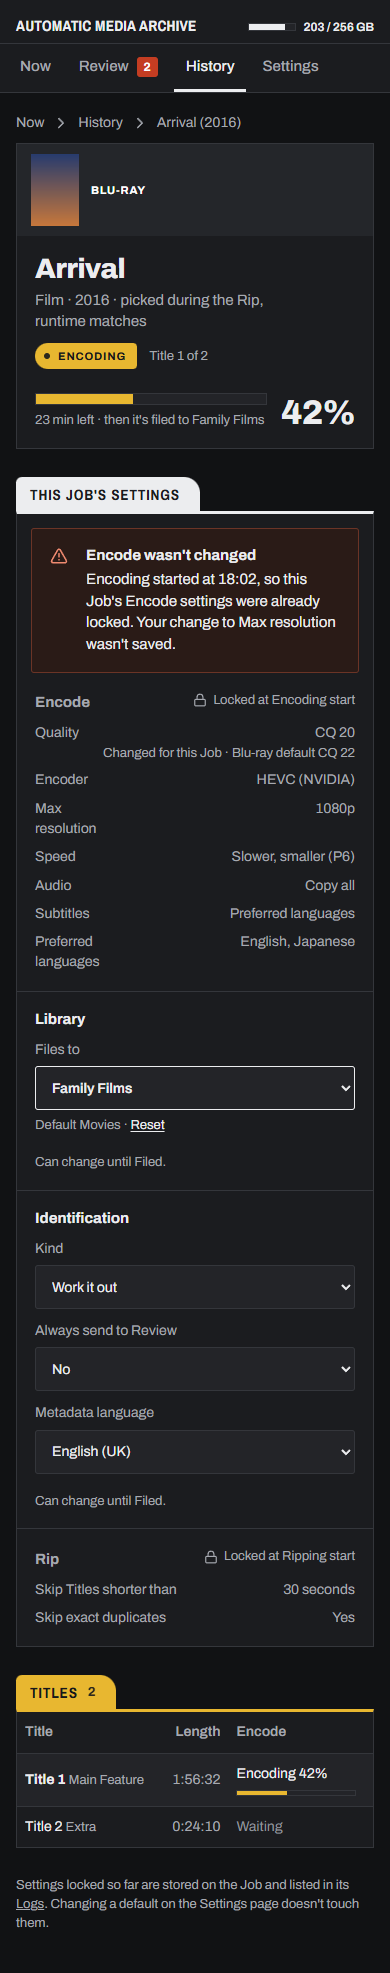
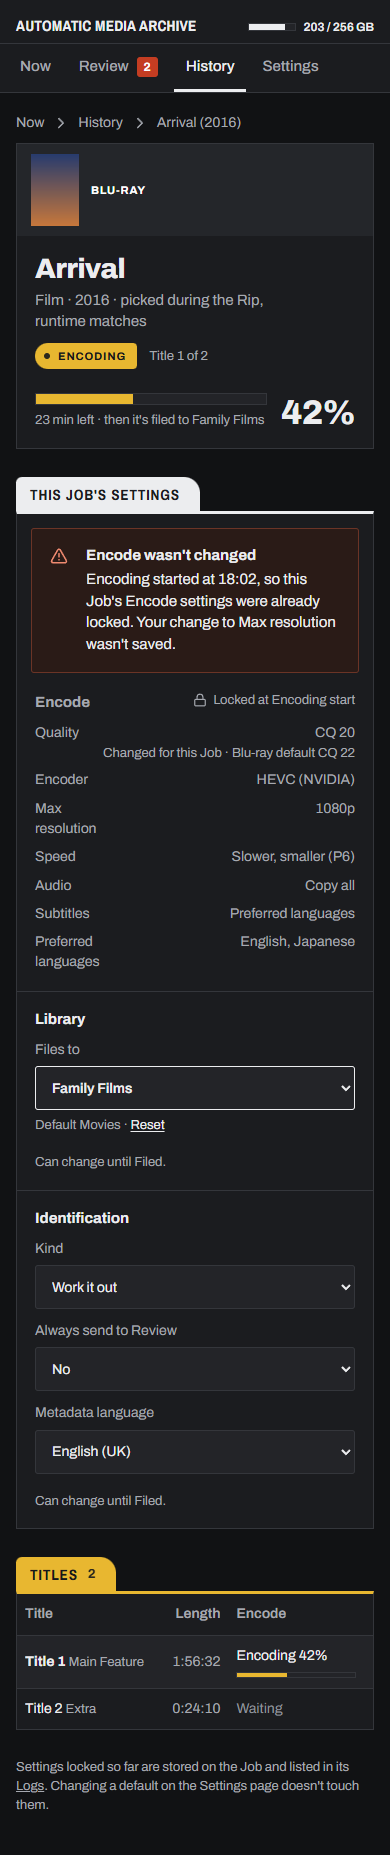
Show only real config in per-Job settings mockups
Video Rips have no Rip settings in ama.toml (the 30-second minimum and
duplicate skipping are fixed MakeMKV behaviour), so video Jobs leave the
Rip group out. CD Jobs keep it with the drive offset and retries.

Refs #29

diff --git a/docs/mockups/job-settings-job-video.html b/docs/mockups/job-settings-job-video.html
@@ -64,10 +64,6 @@
                 <label for="i-lang">Metadata language</label><select class="select" id="i-lang"><option>English (UK)</option><option>English (US)</option><option>Japanese</option></select>
               </div>
               <p class="until">Can change until Filed.</p>
-            </div>
-            <div class="grp locked">
-              <div class="gh"><h3>Rip</h3><span class="lk"><svg class="i" aria-hidden="true"><use href="assets/icons.svg#lock"/></svg>Locked at Ripping start</span></div>
-              <dl><dt>Skip Titles shorter than</dt><dd>30 seconds</dd><dt>Skip exact duplicates</dt><dd>Yes</dd></dl>
             </div></div>
           </div>
         </div>

diff --git a/docs/mockups/job-settings-rip-video.html b/docs/mockups/job-settings-rip-video.html
@@ -66,10 +66,6 @@
               <label for="i-lang">Metadata language</label><select class="select" id="i-lang"><option>English (UK)</option><option>English (US)</option><option>Japanese</option></select>
             </div>
             <p class="until">Can change until Filed.</p>
-          </div>
-          <div class="grp locked">
-            <div class="gh"><h3>Rip</h3><span class="lk"><svg class="i" aria-hidden="true"><use href="assets/icons.svg#lock"/></svg>Locked at Ripping start</span></div>
-            <dl><dt>Skip Titles shorter than</dt><dd>30 seconds</dd><dt>Skip exact duplicates</dt><dd>Yes</dd></dl>
           </div></div>
         </div>
       </section>

diff --git a/DESIGN.md b/DESIGN.md
@@ -334,7 +334,7 @@ Title thumbnails in a 3-up grid of 16:9 tiles with 1px hairline gaps. Tiles come
 ### Per-Job Settings Panel
 A Job's settings as overrides of the global ones (`docs/mockups/job-settings-*.html`).
 - **Summary line:** on the rip card, a hairline-topped line at the foot of the drive body names only what differs from the defaults ("CQ 20 (default 22)") and ends with a Settings / Hide settings toggle (44px target).
-- **Panel:** an `ink` bin, "This Job's settings", in two columns: Encode on the left, then Library, Identification and Rip stacked on the right. One column under 720px, with labels above controls. CD Jobs show only Identification, Library and Rip.
+- **Panel:** an `ink` bin, "This Job's settings", in two columns: Encode on the left, with Library and Identification stacked on the right for video Jobs. CD Jobs show Identification on the left, with Library and Rip on the right. One column under 720px, with labels above controls. A group lists only settings that exist in `ama.toml`, and a group with none is left out (video Rips have no Rip settings).
 - **Group:** a 700 / 15px heading with its state at the right, then label and control pairs. An editable group ends with "Can change until <Phase> starts" or "until Filed".
 - **Override:** the control gets an `ink` border and 600 weight, with "Default <value> · Reset" as a 13px `ink-2` hint under it; Reset keeps a 44px hit area. Beside a control on desktop, the label is 400 / 14px `ink-2`.
 - **Saving:** each control saves on change, and a `filed-ink` check reading "Saved" appears by the group heading (`role="status"`, inserted on save so it is announced).
